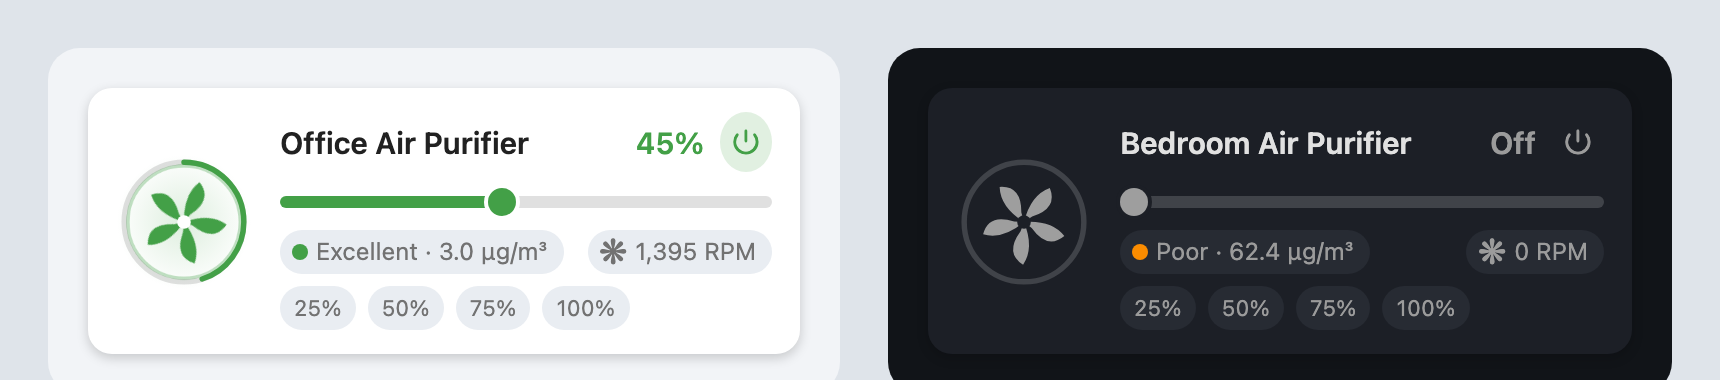
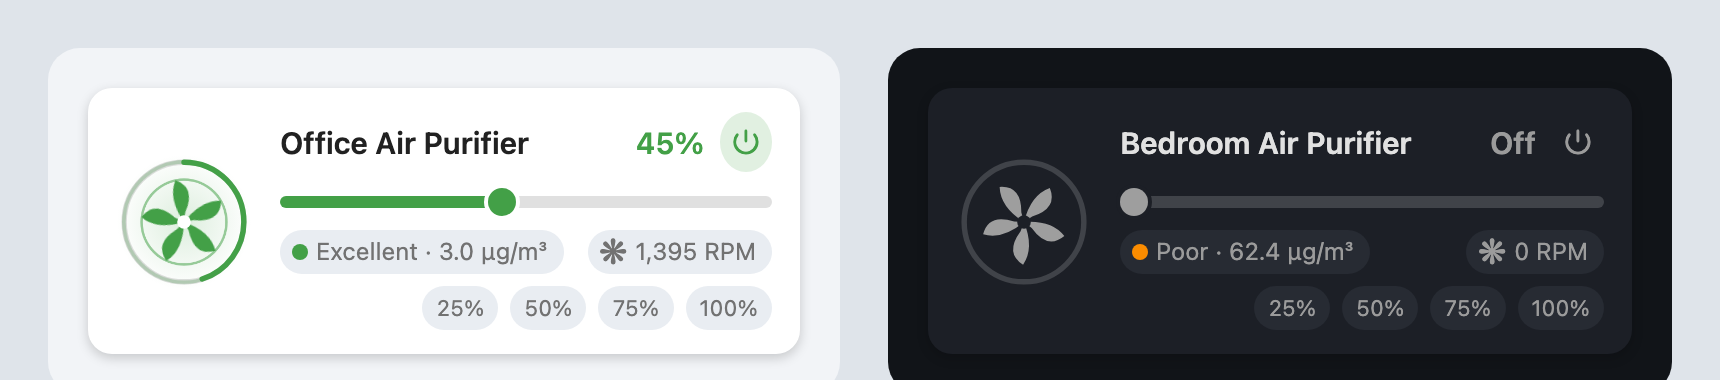
Add five dial animations and a preset alignment option
The dial artwork is now swappable through the `animation` option:
blades (the previous behaviour), pulse, waves, orbit and particles. Each
variation is driven by the same --spin property, so they all speed up
with the fan, stay still when the purifier is off and follow the air
quality colour.

The preset row moved out of the chips row into its own row and can be
aligned with `preset_align` (left, center or right, right by default).

Both options are exposed in the visual editor, and the preview page got
pickers to try them out.

diff --git a/dist/air-purifier-card.js b/dist/air-purifier-card.js
@@ -4,7 +4,7 @@
  * https://github.com/iharosi/air-purifier-card
  */
 
-const CARD_VERSION = "1.1.1";
+const CARD_VERSION = "1.2.0";
 
 console.info(
   `%c AIR-PURIFIER-CARD %c v${CARD_VERSION} `,
@@ -27,6 +27,58 @@ const aqLevel = (value) => {
     return { label: "Unknown", color: "var(--disabled-text-color, #9e9e9e)" };
   }
   return AQ_LEVELS.find((level) => value <= level.max);
+};
+
+// The inner artwork of the dial, one per animation option. Everything is
+// driven by the --spin custom property so each variation follows the fan speed.
+const ANIMATIONS = {
+  blades: `
+    <g class="blades">
+      <g transform="translate(50,50)">
+        <path transform="rotate(0)" d="M0 0 Q5 -20 19 -25 Q25 -10 6 -4 Z"></path>
+        <path transform="rotate(72)" d="M0 0 Q5 -20 19 -25 Q25 -10 6 -4 Z"></path>
+        <path transform="rotate(144)" d="M0 0 Q5 -20 19 -25 Q25 -10 6 -4 Z"></path>
+        <path transform="rotate(216)" d="M0 0 Q5 -20 19 -25 Q25 -10 6 -4 Z"></path>
+        <path transform="rotate(288)" d="M0 0 Q5 -20 19 -25 Q25 -10 6 -4 Z"></path>
+      </g>
+    </g>
+    <circle class="hub" cx="50" cy="50" r="5"></circle>`,
+
+  pulse: `
+    <circle class="ripple" cx="50" cy="50" r="34"></circle>
+    <circle class="ripple" cx="50" cy="50" r="34"></circle>
+    <circle class="ripple" cx="50" cy="50" r="34"></circle>
+    <circle class="core" cx="50" cy="50" r="12"></circle>`,
+
+  waves: `
+    <g clip-path="url(#disc)">
+      <g class="wave"><path d="M24 62 Q50 42 76 62"></path></g>
+      <g class="wave"><path d="M24 62 Q50 42 76 62"></path></g>
+      <g class="wave"><path d="M24 62 Q50 42 76 62"></path></g>
+    </g>`,
+
+  orbit: `
+    <g class="orbit">
+      <path class="trail" d="M50 14 A36 36 0 0 1 81 32"></path>
+      <circle class="comet" cx="50" cy="14" r="5"></circle>
+    </g>
+    <circle class="core" cx="50" cy="50" r="9"></circle>`,
+
+  particles: `
+    <g clip-path="url(#disc)">
+      <g class="particle"><circle cx="37" cy="58" r="4"></circle></g>
+      <g class="particle"><circle cx="50" cy="60" r="3.2"></circle></g>
+      <g class="particle"><circle cx="62" cy="57" r="4"></circle></g>
+      <g class="particle"><circle cx="43" cy="61" r="2.8"></circle></g>
+      <g class="particle"><circle cx="57" cy="59" r="3.4"></circle></g>
+    </g>
+    <rect class="vent" x="32" y="66" width="36" height="5" rx="2.5"></rect>`,
+};
+
+const PRESET_ALIGN = {
+  left: "flex-start",
+  center: "center",
+  right: "flex-end",
 };
 
 const fireEvent = (node, type, detail = {}) => {
@@ -81,15 +133,20 @@ class AirPurifierCard extends HTMLElement {
       throw new Error("`fan` must be an entity from the `fan` domain.");
     }
     this._config = {
+      ...config,
       name: config.name,
       fan,
       rpm: config.rpm,
       pm25: config.pm25,
       show_presets: config.show_presets !== false,
       presets: config.presets || [25, 50, 75, 100],
-      ...config,
+      animation: ANIMATIONS[config.animation] ? config.animation : "blades",
+      preset_align: PRESET_ALIGN[config.preset_align] ? config.preset_align : "right",
     };
-    if (this._built) this._render();
+    if (this._built) {
+      this._applyOptions();
+      this._render();
+    }
   }
 
   getCardSize() {
@@ -147,9 +204,9 @@ class AirPurifierCard extends HTMLElement {
           border: 2px solid var(--ap-accent);
           opacity: 0;
         }
-        .visual.on .pulse { animation: pulse 2.6s ease-out infinite; }
-        .visual.on .pulse:nth-child(2) { animation-delay: 0.87s; }
-        .visual.on .pulse:nth-child(3) { animation-delay: 1.74s; }
+        .visual.on[data-anim="blades"] .pulse { animation: pulse 2.6s ease-out infinite; }
+        .visual.on[data-anim="blades"] .pulse:nth-child(2) { animation-delay: 0.87s; }
+        .visual.on[data-anim="blades"] .pulse:nth-child(3) { animation-delay: 1.74s; }
         @keyframes pulse {
           0%   { transform: scale(0.62); opacity: 0.55; }
           100% { transform: scale(1.18); opacity: 0; }
@@ -169,15 +226,69 @@ class AirPurifierCard extends HTMLElement {
           transform-origin: 50px 50px;
           transition: stroke-dashoffset 0.5s ease, stroke 0.4s ease;
         }
-        .blades {
-          transform-origin: 50px 50px;
+        .blades, .core, .comet, .vent {
           fill: var(--ap-accent);
           transition: fill 0.4s ease;
         }
-        .visual.on .blades { animation: spin var(--spin, 2s) linear infinite; }
-        .visual.off .blades { fill: var(--ap-idle-color); }
-        @keyframes spin { to { transform: rotate(360deg); } }
+        .ripple, .wave path, .trail {
+          fill: none;
+          stroke: var(--ap-accent);
+          transition: stroke 0.4s ease;
+        }
         .hub { fill: var(--card-background-color, #fff); }
+        @keyframes spin { to { transform: rotate(360deg); } }
+
+        /* blades: the fan itself turns, faster at higher speeds */
+        .blades { transform-origin: 50px 50px; }
+        .visual.on .blades { animation: spin var(--spin, 2s) linear infinite; }
+
+        /* pulse: rings breathing out of the centre */
+        .ripple {
+          stroke-width: 3;
+          transform-origin: 50px 50px;
+          opacity: 0;
+        }
+        .visual.off .ripple:nth-of-type(1) { opacity: 0.35; }
+        .visual.on .ripple { animation: ripple calc(var(--spin, 2s) * 2.4) ease-out infinite; }
+        .visual.on .ripple:nth-of-type(2) { animation-delay: calc(var(--spin, 2s) * 0.8); }
+        .visual.on .ripple:nth-of-type(3) { animation-delay: calc(var(--spin, 2s) * 1.6); }
+        @keyframes ripple {
+          0%   { transform: scale(0.3); opacity: 0.85; }
+          100% { transform: scale(1); opacity: 0; }
+        }
+
+        /* waves: airflow sweeping upwards */
+        .wave path { stroke-width: 4.2; stroke-linecap: round; }
+        .wave { opacity: 0.5; }
+        .visual.on .wave { animation: rise calc(var(--spin, 2s) * 1.7) linear infinite; }
+        .visual.on .wave:nth-of-type(2) { animation-delay: calc(var(--spin, 2s) * 0.57); }
+        .visual.on .wave:nth-of-type(3) { animation-delay: calc(var(--spin, 2s) * 1.13); }
+        @keyframes rise {
+          0%   { transform: translateY(18px); opacity: 0; }
+          20%  { opacity: 0.9; }
+          75%  { opacity: 0.7; }
+          100% { transform: translateY(-24px); opacity: 0; }
+        }
+
+        /* orbit: a comet running around the dial */
+        .orbit { transform-origin: 50px 50px; }
+        .trail { stroke-width: 4; stroke-linecap: round; opacity: 0.3; }
+        .visual.on .orbit { animation: spin var(--spin, 2s) linear infinite; }
+
+        /* particles: dust lifted off the intake */
+        .particle { opacity: 0; }
+        .visual.off .particle { opacity: 0.3; }
+        .visual.on .particle { animation: float calc(var(--spin, 2s) * 2.2) linear infinite; }
+        .visual.on .particle:nth-of-type(2) { animation-delay: calc(var(--spin, 2s) * 0.44); }
+        .visual.on .particle:nth-of-type(3) { animation-delay: calc(var(--spin, 2s) * 0.88); }
+        .visual.on .particle:nth-of-type(4) { animation-delay: calc(var(--spin, 2s) * 1.32); }
+        .visual.on .particle:nth-of-type(5) { animation-delay: calc(var(--spin, 2s) * 1.76); }
+        @keyframes float {
+          0%   { transform: translateY(12px); opacity: 0; }
+          15%  { opacity: 0.95; }
+          70%  { opacity: 0.6; }
+          100% { transform: translateY(-30px); opacity: 0; }
+        }
         /* -------- body -------- */
         .body { flex: 1; min-width: 0; }
         .head {
@@ -324,19 +435,13 @@ class AirPurifierCard extends HTMLElement {
           <div class="visual off" id="visual">
             <div class="pulse"></div><div class="pulse"></div><div class="pulse"></div>
             <svg viewBox="0 0 100 100">
+              <defs>
+                <clipPath id="disc"><circle cx="50" cy="50" r="36"></circle></clipPath>
+              </defs>
               <circle class="ring" cx="50" cy="50" r="44"></circle>
               <circle class="ring-value" id="ringValue" cx="50" cy="50" r="44"
                       stroke-dasharray="276.46" stroke-dashoffset="276.46"></circle>
-              <g class="blades" id="blades">
-                <g transform="translate(50,50)">
-                  <path transform="rotate(0)"   d="M0 0 Q5 -20 19 -25 Q25 -10 6 -4 Z"></path>
-                  <path transform="rotate(72)"  d="M0 0 Q5 -20 19 -25 Q25 -10 6 -4 Z"></path>
-                  <path transform="rotate(144)" d="M0 0 Q5 -20 19 -25 Q25 -10 6 -4 Z"></path>
-                  <path transform="rotate(216)" d="M0 0 Q5 -20 19 -25 Q25 -10 6 -4 Z"></path>
-                  <path transform="rotate(288)" d="M0 0 Q5 -20 19 -25 Q25 -10 6 -4 Z"></path>
-                </g>
-              </g>
-              <circle class="hub" cx="50" cy="50" r="5"></circle>
+              <g id="art"></g>
             </svg>
           </div>
 
@@ -370,7 +475,7 @@ class AirPurifierCard extends HTMLElement {
     this._el = {
       card: this.shadowRoot.querySelector("ha-card"),
       visual: $("visual"),
-      blades: $("blades"),
+      art: $("art"),
       ring: $("ringValue"),
       name: $("name"),
       pct: $("pct"),
@@ -408,6 +513,18 @@ class AirPurifierCard extends HTMLElement {
     });
 
     this._built = true;
+    this._applyOptions();
+  }
+
+  /** Options that only change when the configuration changes. */
+  _applyOptions() {
+    const { animation, preset_align: align } = this._config;
+    const el = this._el;
+    if (el.visual.dataset.anim !== animation) {
+      el.visual.dataset.anim = animation;
+      el.art.innerHTML = ANIMATIONS[animation];
+    }
+    el.presets.style.justifyContent = PRESET_ALIGN[align];
   }
 
   // --------------------------------------------------------------- rendering
@@ -558,7 +675,41 @@ const SCHEMA = [
       { name: "pm25", selector: { entity: { domain: "sensor" } } },
     ],
   },
-  { name: "show_presets", selector: { boolean: {} } },
+  {
+    name: "animation",
+    selector: {
+      select: {
+        mode: "dropdown",
+        options: [
+          { value: "blades", label: "Spinning fan blades" },
+          { value: "pulse", label: "Pulsing rings" },
+          { value: "waves", label: "Rising airflow" },
+          { value: "orbit", label: "Orbiting comet" },
+          { value: "particles", label: "Floating particles" },
+        ],
+      },
+    },
+  },
+  {
+    type: "grid",
+    name: "",
+    schema: [
+      { name: "show_presets", selector: { boolean: {} } },
+      {
+        name: "preset_align",
+        selector: {
+          select: {
+            mode: "dropdown",
+            options: [
+              { value: "left", label: "Left" },
+              { value: "center", label: "Center" },
+              { value: "right", label: "Right" },
+            ],
+          },
+        },
+      },
+    ],
+  },
 ];
 
 class AirPurifierCardEditor extends HTMLElement {
@@ -584,6 +735,8 @@ class AirPurifierCardEditor extends HTMLElement {
           rpm: "Fan speed sensor (RPM)",
           pm25: "Air quality sensor (PM2.5)",
           show_presets: "Show speed presets",
+          animation: "Animation",
+          preset_align: "Preset alignment",
         }[schema.name] || schema.name);
       this._form.addEventListener("value-changed", (ev) => {
         fireEvent(this, "config-changed", { config: ev.detail.value });

diff --git a/preview.html b/preview.html
@@ -24,10 +24,30 @@
       }
       air-purifier-card { display: block; width: 360px; }
       .hint { font-size: 13px; color: #727272; }
+      .controls { display: flex; gap: 16px; font-size: 13px; color: #727272; }
+      .controls select { font: inherit; margin-left: 6px; }
     </style>
   </head>
   <body>
     <air-purifier-card id="card"></air-purifier-card>
+    <div class="controls">
+      <label>Animation
+        <select id="anim">
+          <option value="blades">Spinning fan blades</option>
+          <option value="pulse">Pulsing rings</option>
+          <option value="waves">Rising airflow</option>
+          <option value="orbit">Orbiting comet</option>
+          <option value="particles">Floating particles</option>
+        </select>
+      </label>
+      <label>Presets
+        <select id="align">
+          <option value="right">Right</option>
+          <option value="center">Center</option>
+          <option value="left">Left</option>
+        </select>
+      </label>
+    </div>
     <p class="hint">Mocked Home Assistant — the toggle, slider and presets all work.</p>
 
     <!-- Stand-ins for the Home Assistant elements the card uses.
@@ -105,13 +125,23 @@
       };
 
       const card = document.getElementById("card");
-      card.setConfig({
-        type: "custom:air-purifier-card",
-        fan: "fan.air_purifier_1_pwm_fan",
-        rpm: "sensor.air_purifier_1_fan_rpm",
-        pm25: "sensor.office_air_quality_sensor_pm_summary",
-      });
-      card.hass = hass;
+      const anim = document.getElementById("anim");
+      const align = document.getElementById("align");
+
+      const apply = () => {
+        card.setConfig({
+          type: "custom:air-purifier-card",
+          fan: "fan.air_purifier_1_pwm_fan",
+          rpm: "sensor.air_purifier_1_fan_rpm",
+          pm25: "sensor.office_air_quality_sensor_pm_summary",
+          animation: anim.value,
+          preset_align: align.value,
+        });
+        card.hass = hass;
+      };
+      anim.addEventListener("change", apply);
+      align.addEventListener("change", apply);
+      apply();
     </script>
   </body>
 </html>

diff --git a/README.md b/README.md
@@ -11,6 +11,7 @@ PM2.5 reading.
 - Power toggle (tap the fan or the power button)
 - 0–100 % speed slider + optional preset pills
 - Live fan RPM and PM2.5 chips (tap for more-info)
+- Five animations to pick from, all following the fan speed
 - Accent colour follows air quality (Excellent → Hazardous)
 - No dependencies, no build step, works with the visual editor
 
@@ -47,8 +48,34 @@ pm25: sensor.office_air_quality_sensor_pm_summary
 | `name` | string | friendly name | Title shown on the card |
 | `rpm` | string | – | Sensor with the fan speed in RPM |
 | `pm25` | string | – | Sensor with the PM2.5 value in µg/m³ |
+| `animation` | string | `blades` | Dial animation, see below |
 | `show_presets` | boolean | `true` | Show the preset speed pills |
 | `presets` | list | `[25, 50, 75, 100]` | Preset percentages |
+| `preset_align` | string | `right` | Preset row alignment: `left`, `center` or `right` |
+
+## Animations
+
+Every animation runs only while the purifier is on and follows the fan
+percentage: the higher the speed, the faster it moves.
+
+![The five animations](images/animations.png)
+
+| `animation` | What it looks like |
+| --- | --- |
+| `blades` (default) | The fan blades turn, with airflow rings around the dial |
+| `pulse` | Rings breathe outwards from the centre |
+| `waves` | Airflow arcs sweep upwards through the dial |
+| `orbit` | A comet runs around the dial |
+| `particles` | Dust rises off the intake |
+
+```yaml
+type: custom:air-purifier-card
+fan: fan.air_purifier_1_pwm_fan
+rpm: sensor.air_purifier_1_fan_rpm
+pm25: sensor.office_air_quality_sensor_pm_summary
+animation: waves
+preset_align: center
+```
 
 ## Air quality colours
 
